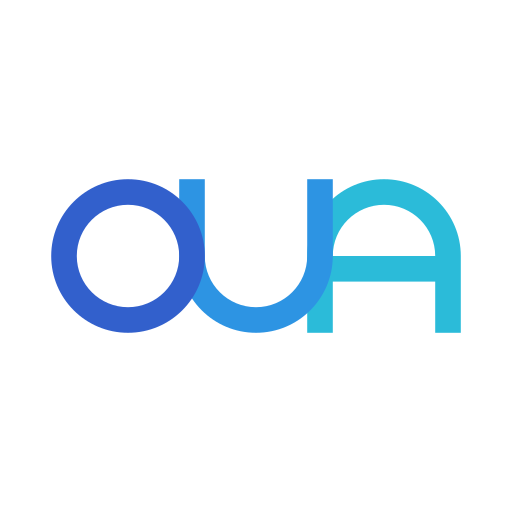
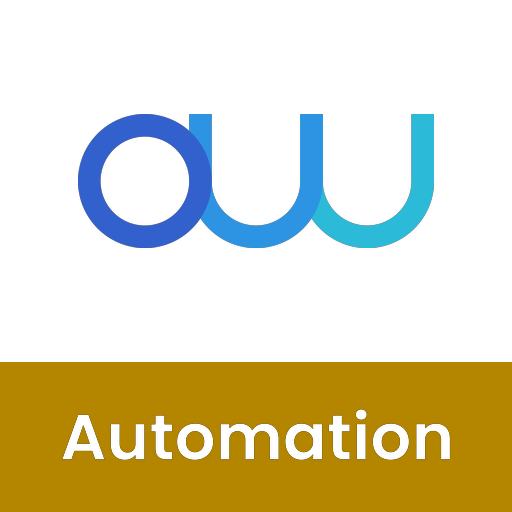
Adopt the shared Open Unreal Utilities identity
The family now shares one OUU monogram and is told apart by an accent
colour rather than a per-project third glyph, so the OUA mark is
retired. Artwork is generated by Build/Scripts/Branding in the sample
project.

- Icon128/Icon512 gain the accent band carrying the project name
- ouu_wide / ouu512_wide replace the oua*.png files
- README: title becomes "Open Unreal Utilities - Automation Tools",
  plus a link back to the main plugin

Note this repo ships independently as a python package; only the
branding and README changed, setup.py is untouched.

diff --git a/README.md b/README.md
@@ -1,7 +1,9 @@
 
-# Open Unreal Automation Tools
+# Open Unreal Utilities - Automation Tools
 
-![](./Resources/oua_wide.png)
+![Open Unreal Utilities - Automation Tools logo](./Resources/ouu_wide.png)
+
+> Part of [Open Unreal Utilities](https://github.com/JonasReich/OpenUnrealUtilities), a family of Unreal Engine plugins and tools.
 
 The Open Unreal Automation Tools are lightweight scripts for automating Unreal Engine processes like builds, automation tests, etc.
 
